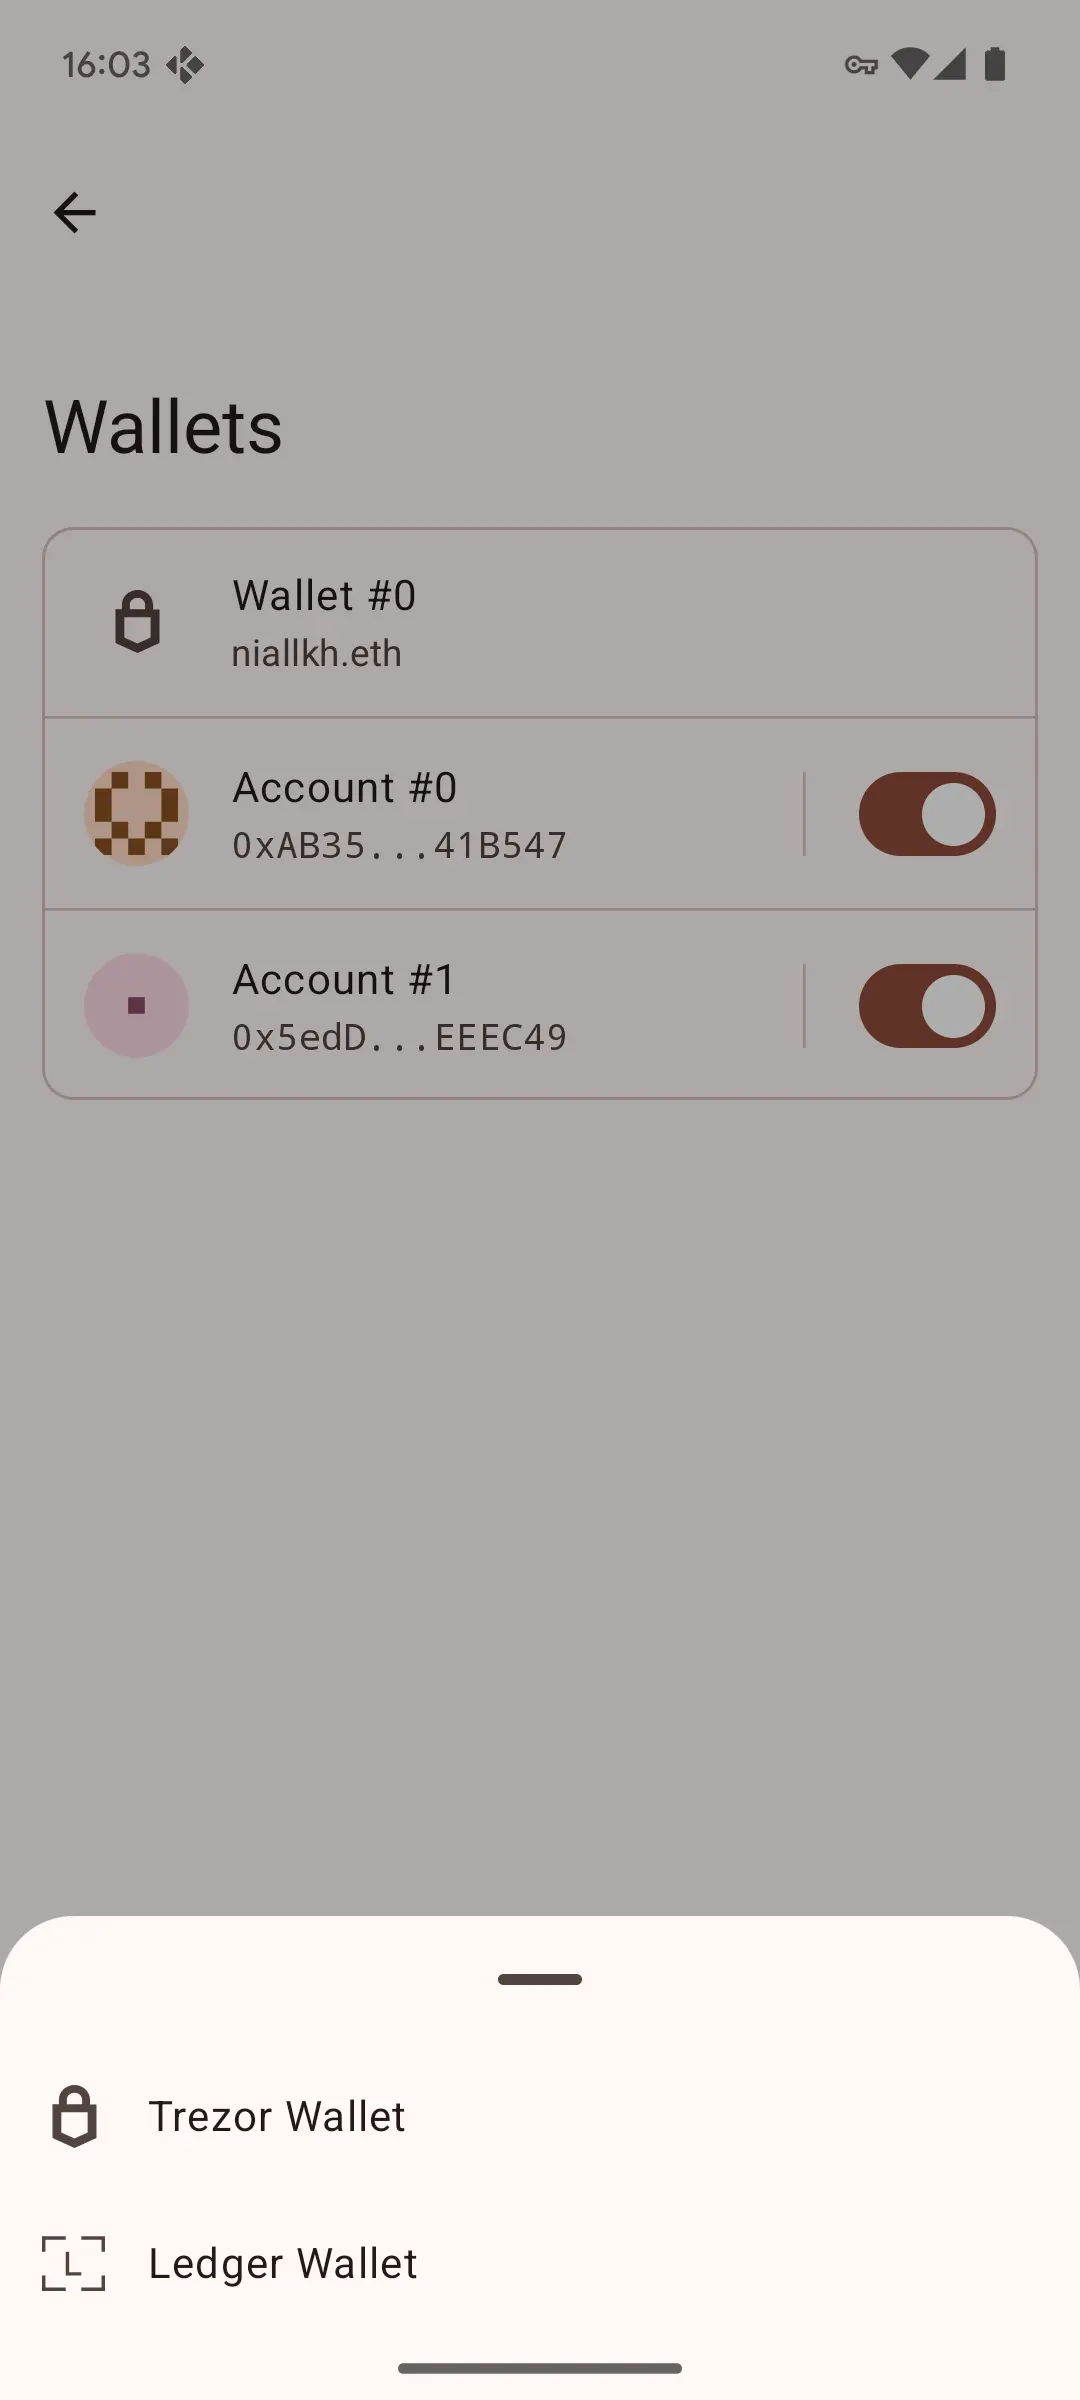
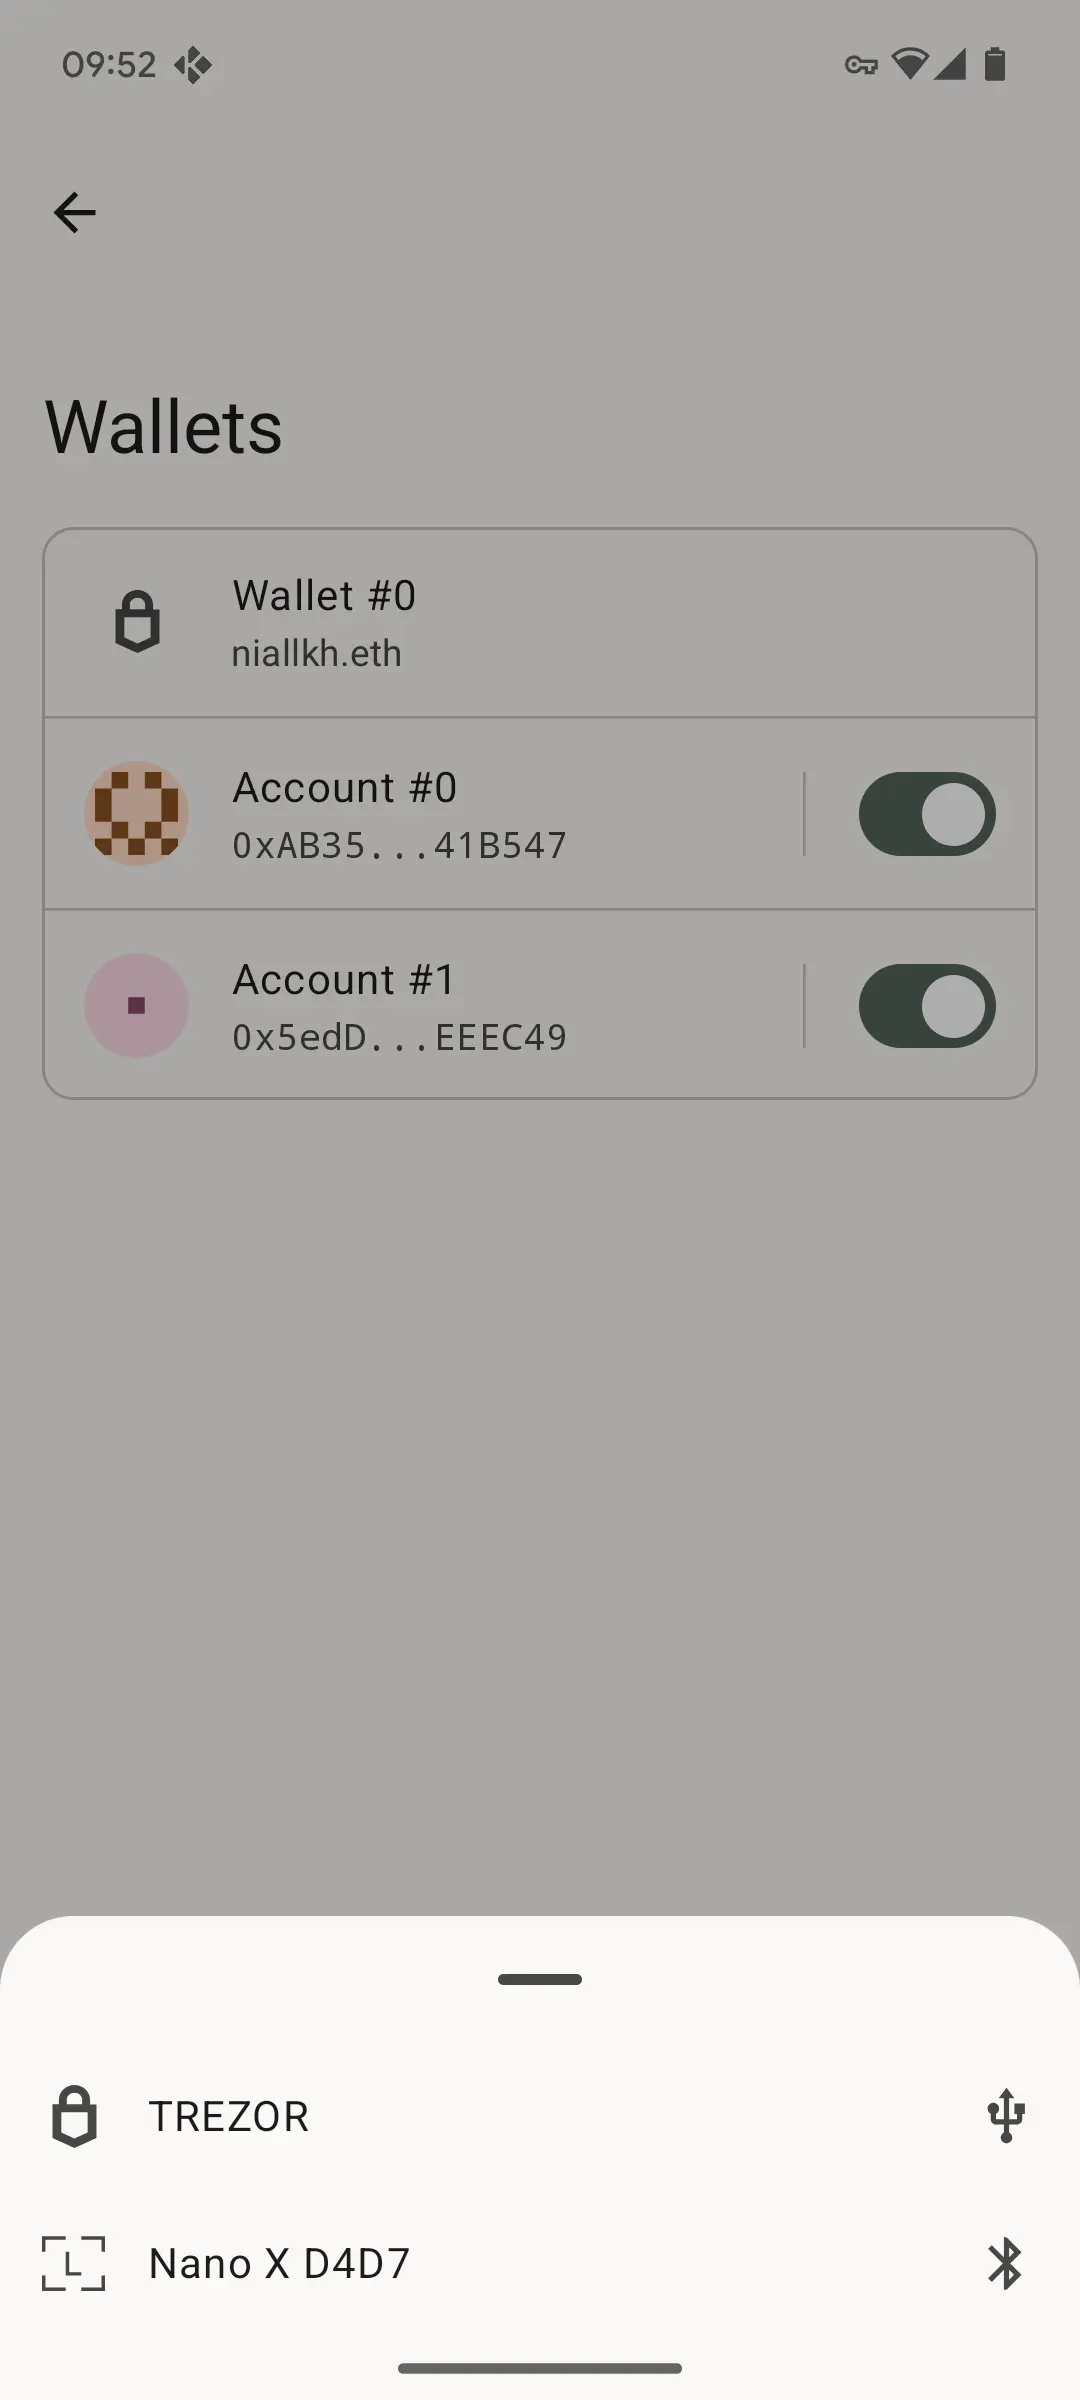
release(0.0.3)
Account Tokens Discovery.
Hardware wallet selector.
Ledger BLE support.

diff --git a/README.md b/README.md
@@ -13,7 +13,7 @@ Some things you can do now:
 * EIP-191, EIP-712, EIP-1559
 * Trezor Safe 3, Safe 5, T, One
 * Link Trezor Passphrase to Biometrics
-* Ledger Nano X, Nano S Plus, Stax (USB)
+* Ledger Nano X, Nano S Plus, Stax
 * NFTs
 * Material You design
 * IPFS trustless client
@@ -26,7 +26,6 @@ Some things you can expect in the future:
 * WalletConnect Inbox
 * ENS
 * Keystone (USB)
-* Ledger (Bluetooth)
 * iOS
 
 ## Built With
